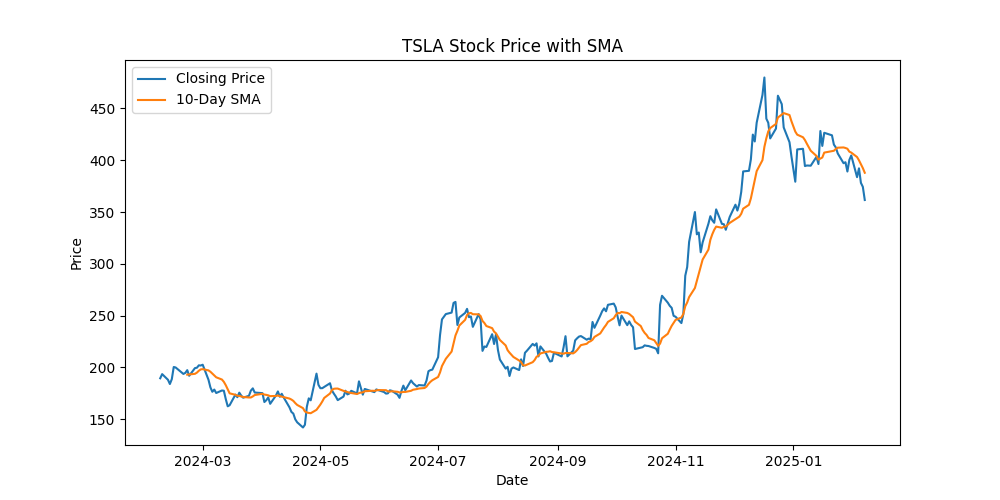
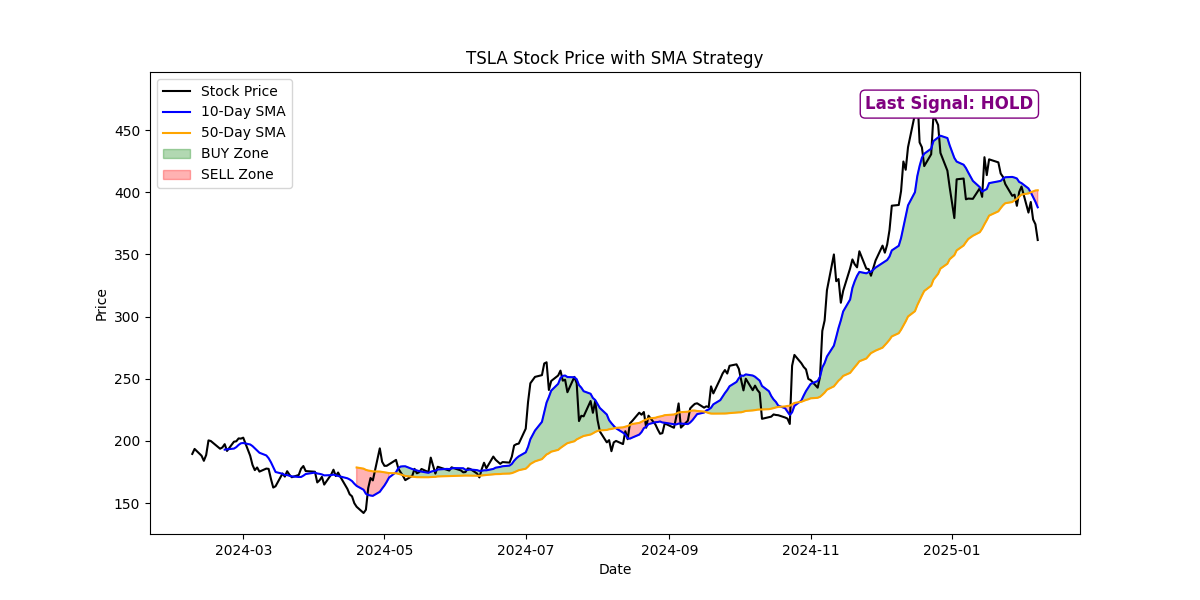
first commit

diff --git a/app/services/stock_service.py b/app/services/stock_service.py
@@ -1,8 +1,9 @@
 import yfinance as yf
 import pandas as pd
 import seaborn as sns
+import numpy as np
 import matplotlib.pyplot as plt
-from fastapi.responses import FileResponse
+from fastapi.responses import FileResponse, JSONResponse
 from ..Schemas import schemas
 import os
 
@@ -41,24 +42,49 @@ def generate_chart(ticker: str, window: str):
 
 def generate_signal(ticker: str):
     stock = yf.Ticker(ticker)
-    data = stock.history(period = "1y")
-    # Calculating short SMA
-    data["SMA_short"] = data["Close"].rolling(window = 10).mean()
-    # Calcultaing long SMA
-    data["SMA_long"] = data["Close"].rolling(window = 50).mean()
+    data = stock.history(period="1y")
 
-    sns.lineplot(data = data, x = data.index, y = "SMA_short", label = "7-Day SMA", color = "blue")
-    sns.lineplot(data = data, x = data.index, y = "SMA_long", label = "50-Day SMA", color = "orange")
+    # Calculate Short & Long SMAs
+    data["SMA_short"] = data["Close"].rolling(window=10).mean()
+    data["SMA_long"] = data["Close"].rolling(window=50).mean()
 
-    # Filling the color between two lines indicating the dominance of the line
-    plt.fill_between(data.index, data["SMA_short"], data["SMA_long"], where = (data["SMA_short"] > data["SMA_long"]), color = "green", alpha = 0.3, label = "Above long SMA: BUY SIGNAL")
+    data["Signal"] = np.where(
+        (data["SMA_short"].shift(2) < data["SMA_long"].shift(2)) 
+        & ((data["SMA_short"].shift(1) > data["SMA_long"].shift(1)) 
+        & (data["SMA_short"].shift(2) > data["SMA_long"].shift(2))),
+        "BUY",
+        np.where(
+            (data["SMA_short"].shift(1) > data["SMA_long"].shift(1)) & (data["SMA_short"] < data["SMA_long"]),
+            "SELL",
+            "HOLD"
+        )
+    )
 
-    plt.fill_between(data.index, data["SMA_short"], data["SMA_long"], where = (data["SMA_short"] < data["SMA_long"]), color = "red", alpha = 0.3, label = "Below long SMA: SELL SIGNAL")
+    last_signal = data["Signal"].iloc[-1]
+    plt.figure(figsize=(12, 6))
+    sns.lineplot(data=data, x=data.index, y="Close", label="Stock Price", color="black")
+    sns.lineplot(data=data, x=data.index, y="SMA_short", label="10-Day SMA", color="blue")
+    sns.lineplot(data=data, x=data.index, y="SMA_long", label="50-Day SMA", color="orange")
 
-    plt.title(f"{ticker} Stock Price with short and long SMA")
+    plt.fill_between(data.index, data["SMA_short"], data["SMA_long"], 
+                     where=(data["SMA_short"] > data["SMA_long"]), color="green", alpha=0.3, label="BUY Zone")
+    
+    plt.fill_between(data.index, data["SMA_short"], data["SMA_long"], 
+                     where=(data["SMA_short"] < data["SMA_long"]), color="red", alpha=0.3, label="SELL Zone")
+    plt.text(
+        0.95, 0.95, f"Last Signal: {last_signal}", 
+        horizontalalignment='right', verticalalignment='top', 
+        transform=plt.gca().transAxes,
+        fontsize=12, color="purple", fontweight='bold', bbox=dict(facecolor="white", edgecolor="purple", boxstyle="round,pad=0.3")
+    )
+
+    # Title, Labels, and Legend
+    plt.title(f"{ticker} Stock Price with SMA Strategy")
     plt.xlabel("Date")
     plt.ylabel("Price")
     plt.legend()
+    
+    # Save Chart
     file_path = f"{STATIC_DIR}/{ticker}_chart.png"
     plt.savefig(file_path)
     plt.close()
